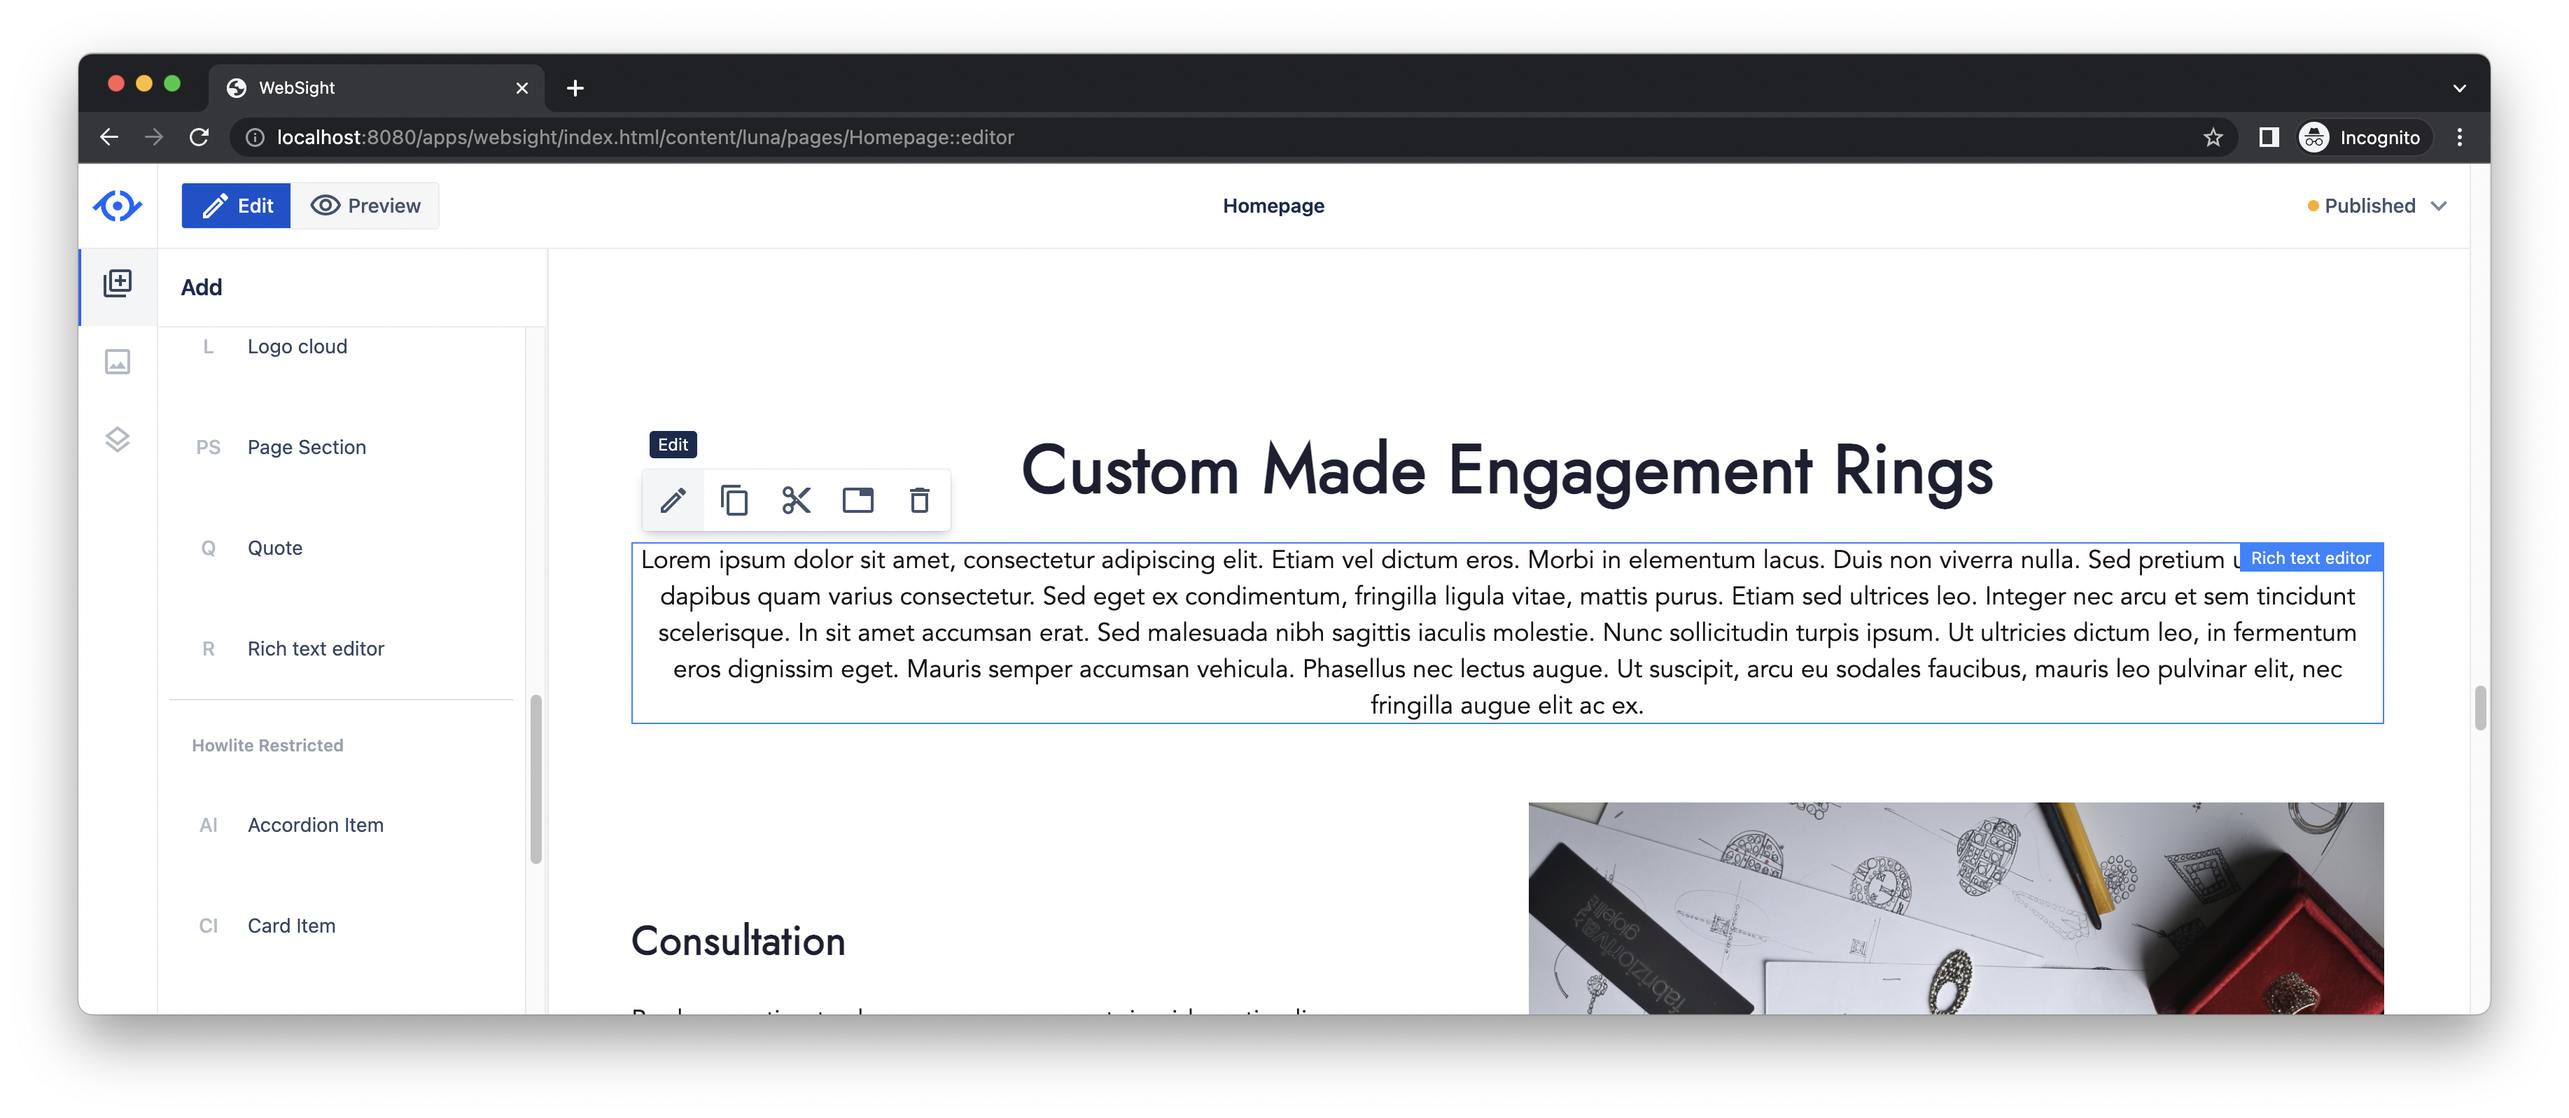
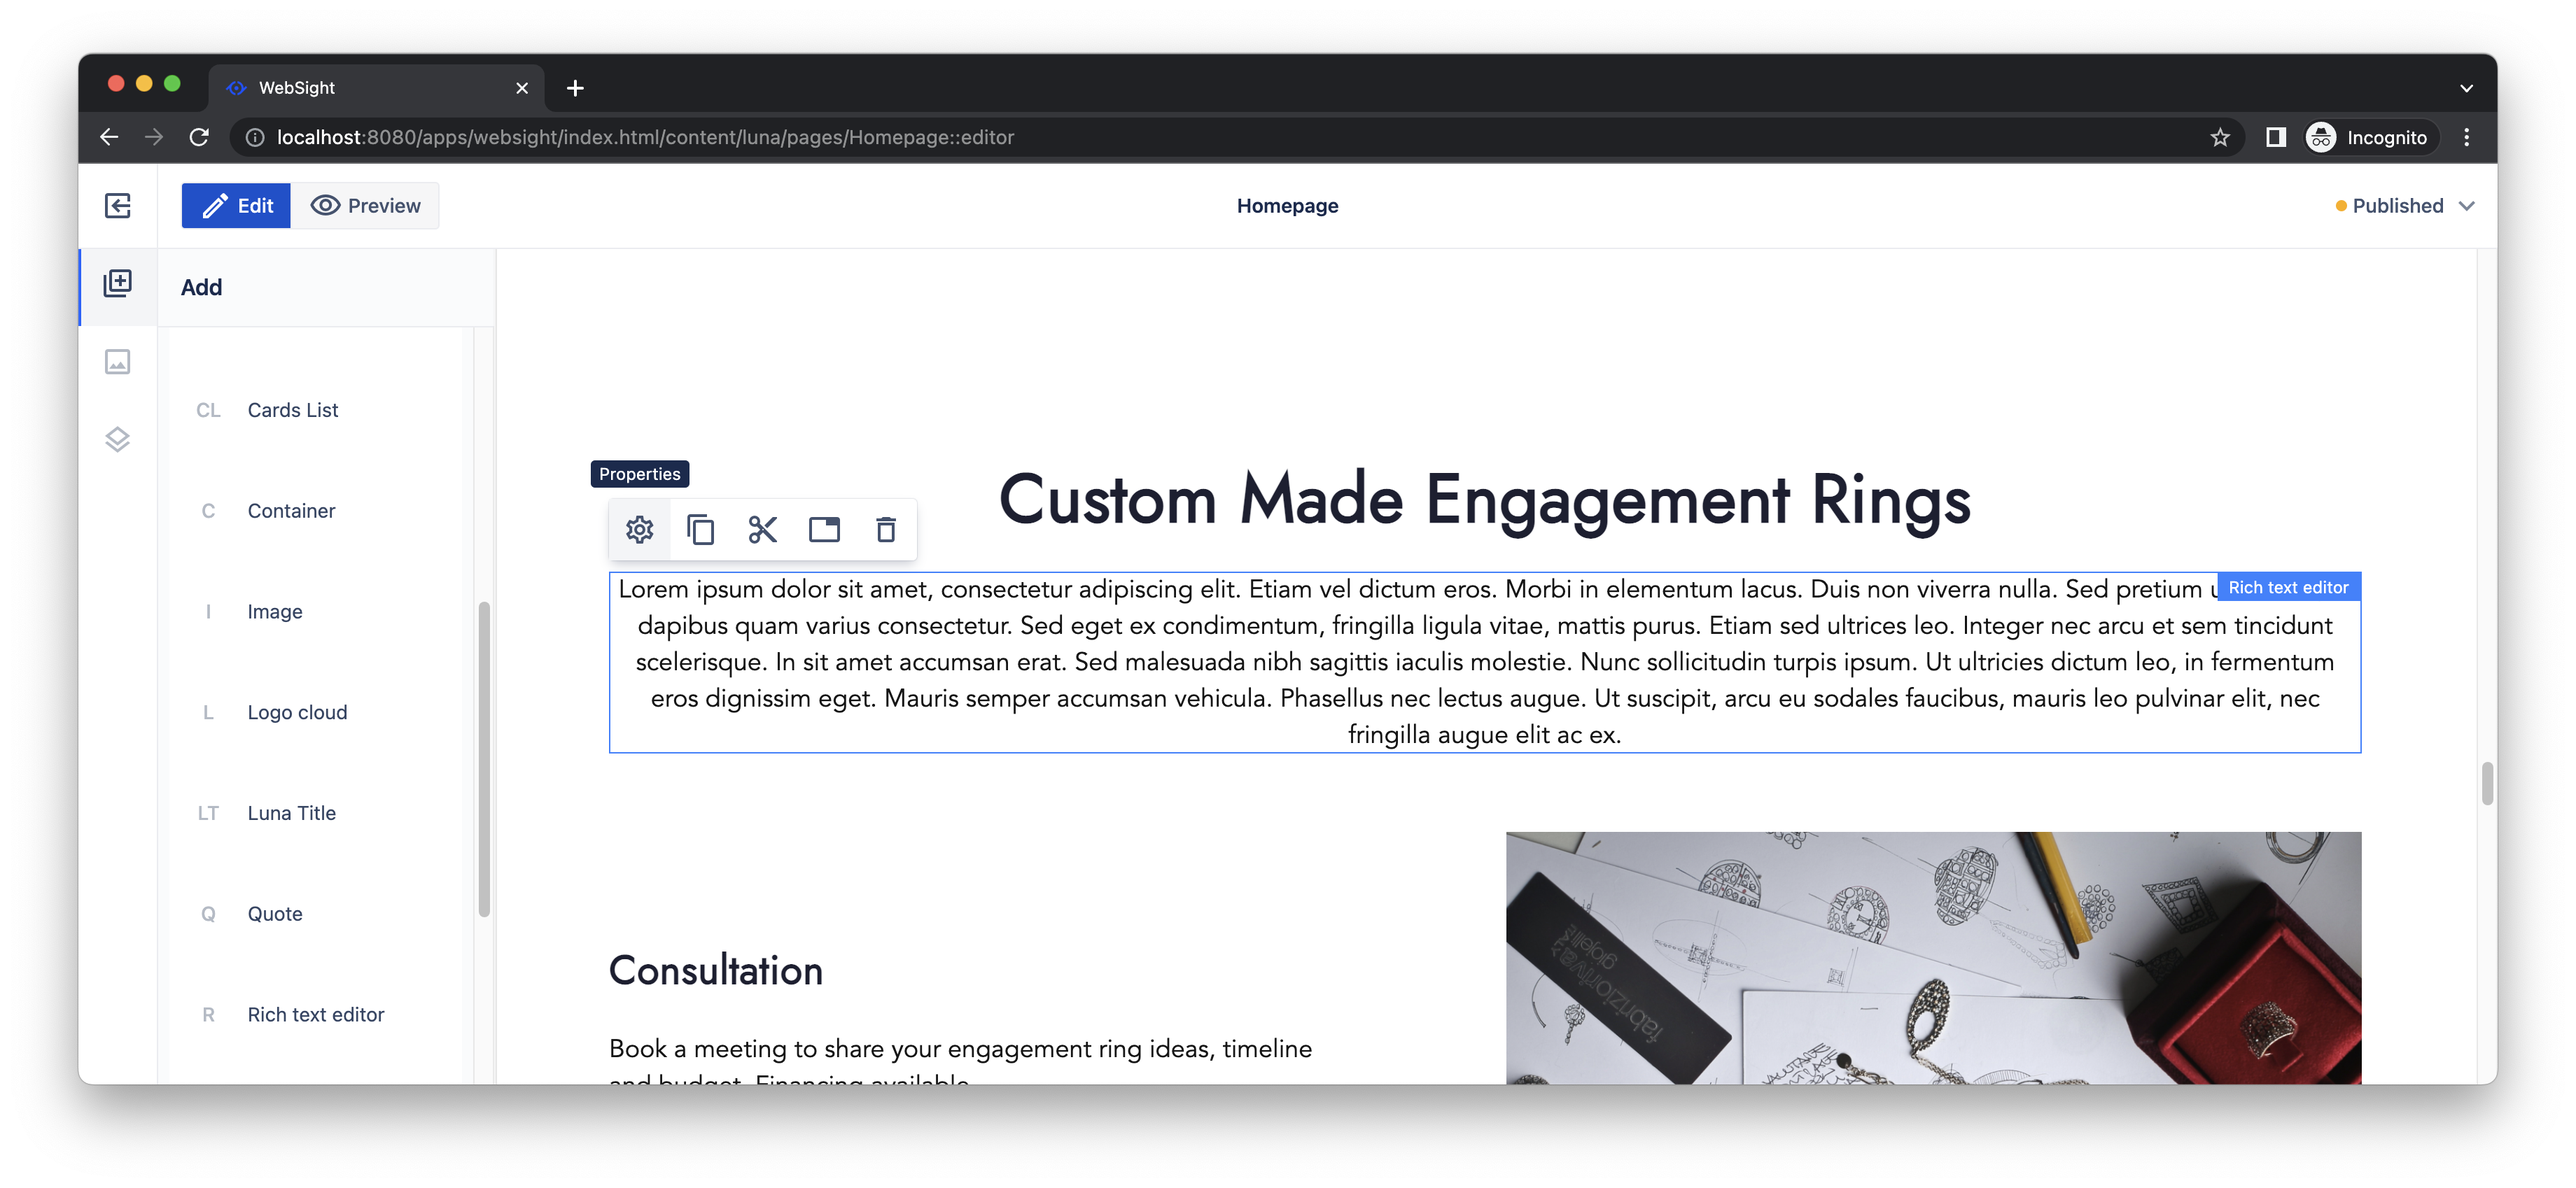
feedback from Tomek - updates

diff --git a/docs/docs/quick-start/index.md b/docs/docs/quick-start/index.md
@@ -6,7 +6,7 @@ This guide is a starting-point for developing custom components for WebSight CMS
 
 !!! info "Prerequisites"
 
-    Before going any further, please make sure you have [Docker Desktop](https://www.docker.com/products/docker-desktop/) installed on your machine. Docker Desktop supports Windows, macOS and Linux.
+    Before going any further, please ensure you have [Docker Desktop](https://www.docker.com/products/docker-desktop/) installed and launched on your machine. Docker Desktop supports Windows, macOS, and Linux.
 
 ## Part A: Run a local instance using Docker
 
@@ -56,13 +56,13 @@ In the local instance, the WebSight admin panel is accessible by navigating to [
 
 ### 2. Select space for the demo site
 
-We use _Spaces_ to organise content. In the WebSight admin panel, open the space for the demo site _Luna_.
+We use _Spaces_ to organise content. In the WebSight admin panel, open the space for the demo site _Luna - custom code_.
 
 ![Spaces](./quick-start-spaces.png)
 
 ### 3. Publish assets and the demo site
 
-Open the list of _Assets_ using the left sidebar. Go to the folder _images_, select all subfolders and then click _Publish_.
+Open the list of _Assets_ using the left sidebar. Select the folder _images_ and then click _Publish_.
 
 ![Assets publication](./quick-start-assets-publication.png)
 
@@ -78,8 +78,9 @@ Congratulations! The demo site is now available by navigating to [http://luna.12
 
     The distribution contains other demo sites. We used [nip.io](https://nip.io) to support their preview in a browser (having just one local instance of WebSight CMS). After assets and pages publication, they are available at: 
     
-    - [http://bulma.127.0.0.1.nip.io/](http://bulma.127.0.0.1.nip.io/) Bulma - Personal Template
-    - [http://no-code.luna.127.0.0.1.nip.io/](http://no-code.luna.127.0.0.1.nip.io/) No Code Luna
+    - [http://bulma-personal-template.127.0.0.1.nip.io/](http://bulma-personal-template.127.0.0.1.nip.io/) Bulma - personal template
+    - [http://luna-low-code.127.0.0.1.nip.io/](http://luna-low-code.127.0.0.1.nip.io/) Luna - low code
+    - [http://luna-no-code.127.0.0.1.nip.io/](http://luna-no-code.127.0.0.1.nip.io/) Luna - no code
     
 
 
@@ -95,7 +96,7 @@ The WebSight admin panel runs at [http://localhost:8080/](http://localhost:8080/
 
 ### 2. Select space for the demo site
 
-We use _Spaces_ to organise content. Please open the space for the demo site _Luna_.
+We use _Spaces_ to organise content. Please open the space for the demo site _Luna - custom code_.
 
 ![Spaces](./quick-start-spaces.png)
 
@@ -113,7 +114,7 @@ Find the _Rich text editor_ on the tab _Components_ and use the drag-and-drop fe
 
 ![Rich text editor available in component tree](./quick-start-RTE-component.png)
 
-Click on the new component to open available actions. Select the _Pencil_ icon to edit properties.
+Click on the new component to open available actions. Select the _Gear_ icon to edit properties.
 
 ![Actions available for RTE component](./quick-start-RTE-editing.png)
 
@@ -141,6 +142,12 @@ Congratulations! Your changes should be visible now at [http://luna.127.0.0.1.ni
 
 This page demonstrated the basics of editing pages with WebSight CMS. As a next step, we encourage you to explore more technical details about WebSight:
 
-- [Howlite](../authors/component-libs/howlite/) library documentation to browse other components available in the distribution;
+- [Howlite](../authors/component-libs/howlite/) documentation to browse other components available in the library.
+- [Bulma](https://github.com/websight-io/bulma/) components implemented for the WebSight CMS. You can use the collection and build your site without any code development. 
 - [Quick start tutorial for developers](../developers/quick-start/) to check how to implement custom components.
-- Additional demo sites: _Bulma - Personal Template_ and _No Code Luna_. They use a library of [Bulma](https://bulma.io/) components implemented for the WebSight CMS. You can use the collection and build your site without any code development.
+
+We recommend exploring other demo sites included in the distribution too. Before you open the following links, visit the [admin panel](http://localhost:8080/), and publish pages and assets for a given space.
+
+- [_Bulma - personal template_](http://bulma-personal-template.127.0.0.1.nip.io/). It is a sample inspired by the [Portfolio page](https://bulmatemplates.github.io/bulma-templates/templates/personal.html). We created it using the [Bulma](https://github.com/websight-io/bulma/) components.
+- [_Luna - no code_](http://luna-no-code.127.0.0.1.nip.io/). We authored the _Luna_ site with the [Bulma](https://github.com/websight-io/bulma/) components without additional custom code or development.
+- [_Luna - low code_](http://luna-low-code.127.0.0.1.nip.io/). We added some custom styling and implemented only components missing in the [Bulma](https://github.com/websight-io/bulma/) library.

diff --git a/docs/docs/authors/component-libs/howlite/rte/index.md b/docs/docs/authors/component-libs/howlite/rte/index.md
@@ -4,7 +4,7 @@ A Rich Text Editor allows editors to create text content (paragraphs with headin
 
 ## Usage
 
-Drag & drop RTE component to a Page Section. A simple paragraph with "lorem ipsum" content will be rendered on a page:
+Drag & drop RTE component to a Page Section. A simple paragraph with _lorem ipsum_ content will be rendered on a page:
 
 <p align="center" width="100%">
     <img class="image--with-border" src="./rte-edit.jpg" alt="Rich Text Editor">
@@ -12,7 +12,7 @@ Drag & drop RTE component to a Page Section. A simple paragraph with "lorem ipsu
 
 
 ## Authorable properties
-Click <img class="image--inline" src="../images/edit-icon.jpg" alt="Edit icon"> ("Edit" icon) on the **RTE** component to see its properties:
+Click <img class="image--inline" src="../images/edit-icon.jpg" alt="Edit icon"> (_Edit_ icon) on the **RTE** component to see its properties:
 
 On the **General** tab, you can add:
   
@@ -21,8 +21,8 @@ On the **General** tab, you can add:
       - select some words and make it bold / italic / underlined or crossed.
       - add a link
       - create bullet points or ordered list
-      - align text to the left / center / right or with "justify" option.
-      - add a new line (__br__ html tag). Please note that pressing "Enter" tab in RTE results in a new paragraph. If you click "New Line" Icon - new line will be added inside the same paragraph.
+      - align text to the left / center / right or with _justify_ option.
+      - add a new line (__br__ html tag). Please note that pressing _Enter_ button in RTE results in a new paragraph. If you click _New Line_ icon - new line will be added inside the same paragraph.
       - clear formatting
 
 <p align="center" width="100%">

diff --git a/docs/docs/authors/component-libs/howlite/page-section/index.md b/docs/docs/authors/component-libs/howlite/page-section/index.md
@@ -24,7 +24,7 @@ Click <img class="image--inline" src="../images/edit-icon.jpg" alt="Edit icon"> 
 </p>
 
 - you can drag & drop an image from the left assets panel, to add a **background image** (for each [breakpoint](../grid#breakpoints-definition) separately).
-    - each breakpoint's asset will be rendered on this breakpoint only. For example, if you leave M breakpoint image blank, nothing will be rendered on tablet resolutions.
+- each breakpoint's asset will be rendered on this breakpoint only. For example, if you leave M breakpoint image blank, nothing will be rendered on tablet resolutions.
 
 ## Page Section variants
 Check the **Style** tab in the authoring dialog to see the available style variants for the Page Section component. 
